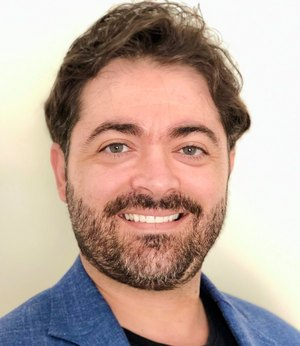
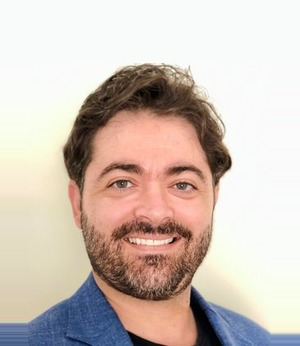
About: zoom out Mohamed Alburaki's photo
Claude-Session: https://claude.ai/code/session_01TGBmywrptKP92kTu4ypN5Y

diff --git a/about.html b/about.html
@@ -59,7 +59,7 @@
       <p class="section-intro">The Hive Atlas was founded by three honey bee scientists who have spent their careers on the diagnostics, genetics, epidemiology, and health of managed colonies.</p>
       <div class="founders">
         <div class="person">
-          <div class="avatar photo"><img src="images/mohamed-alburaki.jpg" alt="Mohamed Alburaki" width="150" height="173" loading="lazy"></div>
+          <div class="avatar photo"><img src="images/mohamed-alburaki.jpg?v=2" alt="Mohamed Alburaki" width="150" height="173" loading="lazy"></div>
           <div>
             <h3>Mohamed Alburaki, Ph.D.</h3>
             <p class="role">Co-founder</p>
